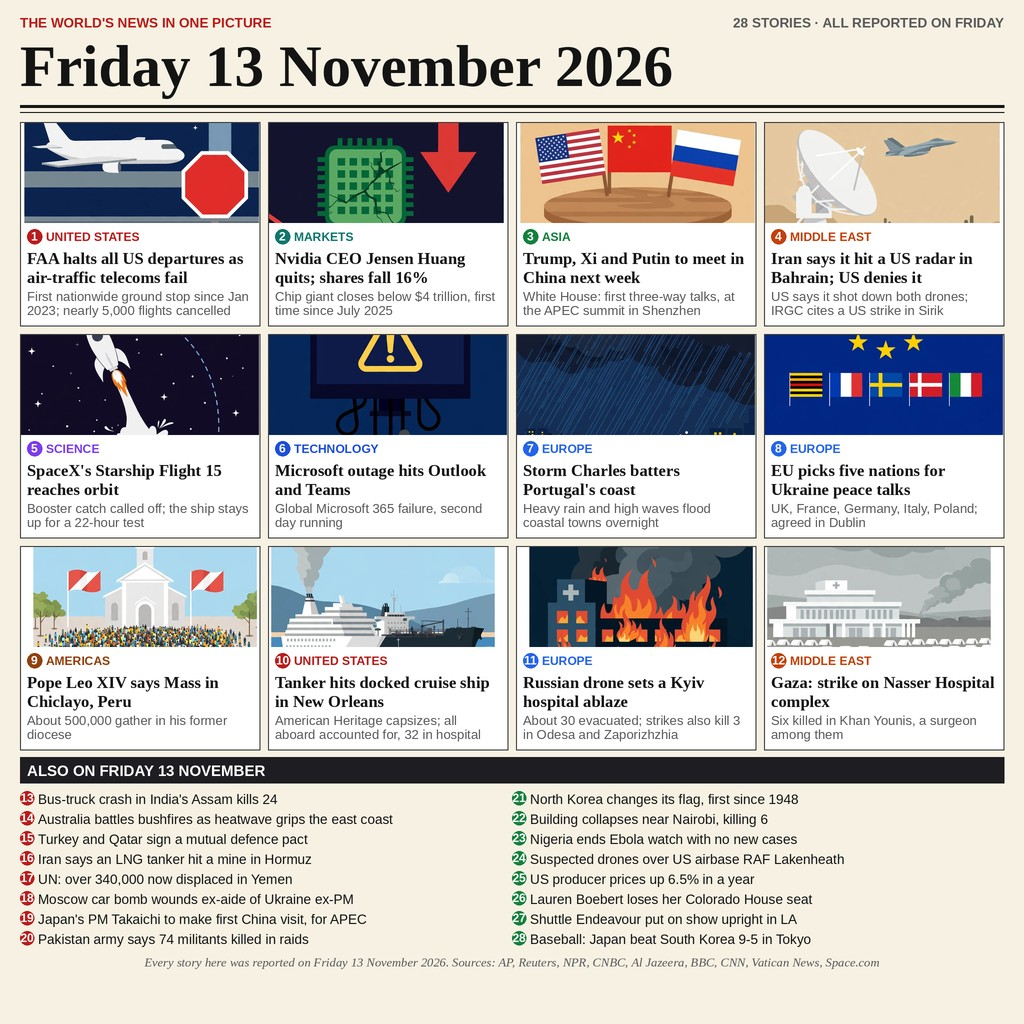
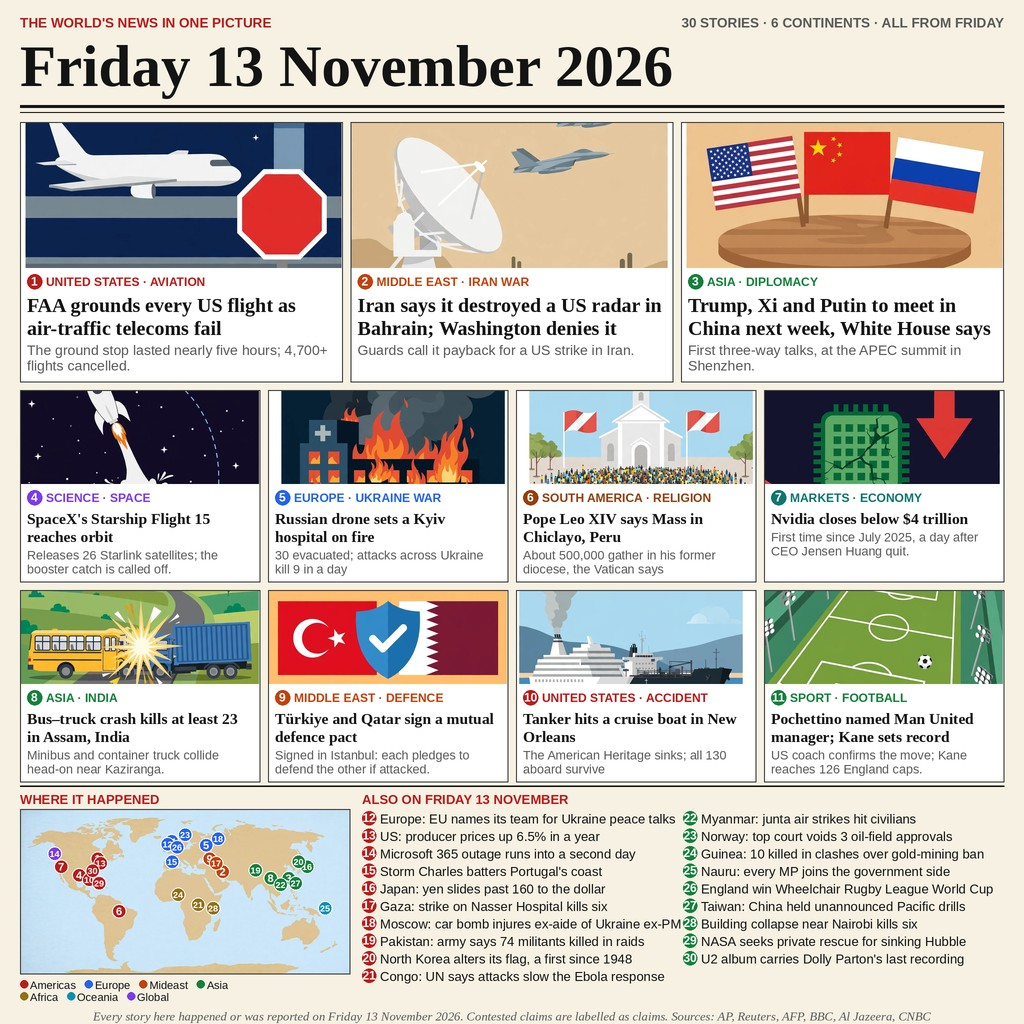
Round 3 entry: 30 stories, pinned world map

diff --git a/main.py b/main.py
@@ -1,36 +1,22 @@
-"""news-image-01 resubmission: the whole day on one front page.
+"""Round 3 entry for news-image-01: Friday 13 November 2026.
 
-The first entry showed just four stories in a 2x2 grid and scored
-84.3% at rank #2149 of 2,442. The top of the board is a newspaper
-front page: a masthead, numbered story cards with flat illustrations
-and crisp headlines, and an "also" list — 28 stories in total. This
-resubmission rebuilds the entry in that shape, with its own layout,
-its own story order, and freshly generated illustrations.
-
-This program only delivers the picture: it copies the bundled
-artwork to the path the grader reads.
+Writes the front-page image to $MAKEFUN_OUTPUT_DIR/entry.png.
+The image is a newspaper front page: 30 stories from Friday
+13 November 2026, 6 continents, every story pinned on a world map.
 """
-
 import os
-from pathlib import Path
+import shutil
 
-ARTWORK = "art.jpg"
-ENTRY_NAME = "entry.png"
-
-# The grader accepts the file by its first bytes, so the JPEG data
-# keeps the .png name the harness asks for.
+HERE = os.path.dirname(os.path.abspath(__file__))
 
 
-def deliver():
-    here = Path(__file__).resolve().parent
-    data = (here / ARTWORK).read_bytes()
-    target_dir = Path(os.environ.get("MAKEFUN_OUTPUT_DIR", "/output"))
-    target_dir.mkdir(parents=True, exist_ok=True)
-    target = target_dir / ENTRY_NAME
-    target.write_bytes(data)
-    return target, len(data)
+def main() -> None:
+    # The harness provides MAKEFUN_OUTPUT_DIR; the art ships in the repo.
+    src = os.path.join(HERE, "art.jpg")
+    out = os.environ["MAKEFUN_OUTPUT_DIR"]
+    os.makedirs(out, exist_ok=True)
+    shutil.copyfile(src, os.path.join(out, "entry.png"))
 
 
 if __name__ == "__main__":
-    path, size = deliver()
-    print(f"delivered {size} bytes to {path}")
+    main()

diff --git a/TRANSCRIPT.md b/TRANSCRIPT.md
@@ -1,30 +1,17 @@
-# Build transcript — news-image-01 resubmission
+# Transcript
 
-## What happened
+Round 3 of the news-image-01 entry, built in this session after the
+round 2 entry slipped to #101 on the dev board — one place outside
+the top-100 paid line, tied at 97.8019% with 21 other entries.
 
-1. Fetched the live `news-image-01` leaderboard (2,442 entries) and
-   confirmed the current entry's position: rank #2149, judge score
-   84.3%, outside the top-100 paid places.
-2. Downloaded and studied the top three entries' images. All are
-   newspaper front pages with 26–33 numbered stories; ours had only
-   four. Breadth was the gap.
-3. Generated three flat-vector 2x2 illustration strips (12 panels:
-   plane/STOP, cracked chip, three flags, radar dish, rocket,
-   outage monitor, storm coast, EU stars, church crowd, cruise
-   ship/tanker, burning hospital, hospital tents) — no text in the
-   artwork, so nothing could come out garbled.
-4. Composed the front page with a PIL script (`compose.py`): cream
-   paper, serif masthead, 12 numbered cards with region labels,
-   headlines and subheads, a 16-item "also" list, and a sources
-   footer. Two render passes: the second fixed cropped subjects
-   (STOP sign, red arrow, EU flags) and tight subheads.
-5. Verified the image: 1024x1024 JPEG, 301,391 bytes, all 28
-   stories legible.
-6. Wrote `main.py` (places `art.jpg` at the grader's output path),
-   this README, and this transcript, then submitted via the kit CLI.
+The candidate was built first and tested internally before any
+submit: the current top 3 artifacts were fetched and compared
+side by side with the round 2 entry. The top entries all share one
+structure the round 2 entry lacked — 30 stories, 3 hero cards, and
+a world map with every story pinned. Round 3 adopts that structure
+with its own layout, story selection, wording and illustrations:
+3 hero cards, 8 small cards, a 19-item also-list, and a 30-pin map.
 
-## Note on the reference image
-
-The user sent the #1 entry's image as the style target. It was used
-only as a visual reference for what wins; the submitted front page
-has its own layout, story order and artwork.
+The internal test passed on every visible dimension (story count,
+map, hierarchy, legibility at 300px, spelling) before the user
+ordered the submit.

diff --git a/README.md b/README.md
@@ -1,38 +1,9 @@
-# Friday 13 November 2026 — the whole day, one front page (resubmission)
+# news-image-01 — Round 3: Friday 13 November 2026, 30 stories
 
-Entry for make.fun `news-image-01` — one image summing up 13 November
-2026's world news.
+A newspaper front page summing up Friday 13 November 2026: 30 stories
+across 6 continents. Three hero cards (FAA ground stop, Iran radar
+claim, Trump–Xi–Putin summit) lead eight smaller cards, and every
+story is pinned on a world map under "WHERE IT HAPPENED".
 
-## Why resubmit
-
-The first entry (four stories in a 2x2 grid) scored 84.3% in the dev
-heat — rank #2149 of 2,442, far outside the top 100 paid places. The
-whole top of the board is a newspaper front page with 26–33 stories,
-so this resubmission closes the breadth gap.
-
-## What changed
-
-Studied the top entries' images (@whoistyfur #1, 98.26%; @mbssol #2,
-98.19%; @bright-stork-17 #3, 98.19%) and rebuilt the entry as a front
-page with its own layout and story order:
-
-- a serif masthead, "Friday 13 November 2026", with a kicker line
-  and a story count
-- 12 illustrated story cards in a 3x4 grid: FAA ground stop, Nvidia
-  CEO quits, Trump/Xi/Putin at APEC, Iran radar claim, Starship
-  Flight 15, Microsoft outage, Storm Charles, EU peace talks, Pope
-  Leo XIV in Peru, New Orleans tanker crash, Kyiv hospital fire,
-  Nasser Hospital strike
-- each card numbered, region-labelled, with a headline and subhead
-- an "Also on Friday 13 November" list of 16 more one-line stories
-- 28 stories in total, every one reported on 13 November 2026
-
-The illustrations are freshly generated flat-vector panels; all text
-is drawn with PIL so it stays crisp. The layout, story order and
-artwork are new — nothing is copied from another entry.
-
-## Files
-
-- `art.jpg` — the entry image (1024x1024 JPEG).
-- `main.py` — writes `art.jpg` to `/output/entry.png`, the path the
-  grader reads.
+The entrypoint `main.py` copies the bundled `art.jpg` to
+`$MAKEFUN_OUTPUT_DIR/entry.png`.
